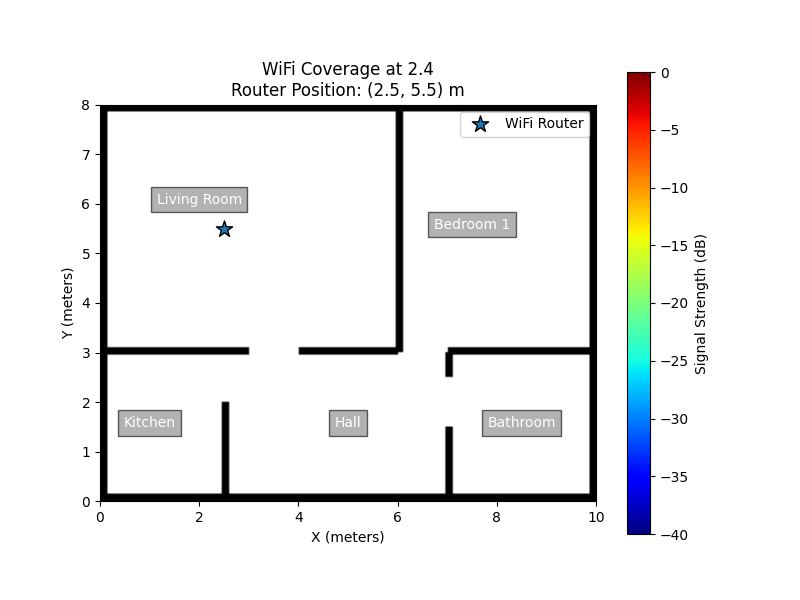
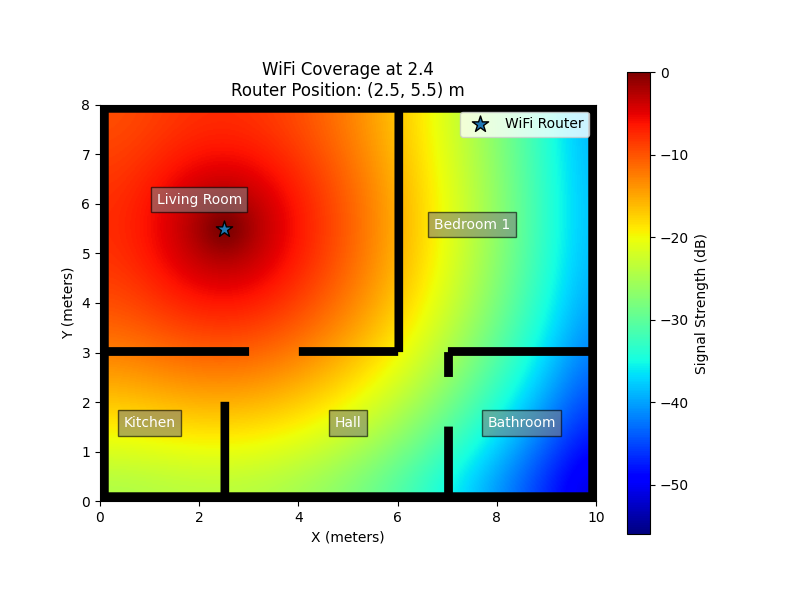
Created a working helmholtz thing
now it needs to be added to the proper code hahah

diff --git a/Assignment3/challenge_B.py b/Assignment3/challenge_B.py
@@ -2,7 +2,9 @@ import numpy as np
 import matplotlib.pyplot as plt
 import cmath
 import os
+import matplotlib.animation as animation
 
+# Create discretisation grid
 scale = 40  #scaling so that 1 meter is 20 pixels
 dx = 1/scale    #each pixel is 1/20 cm
 
@@ -100,20 +102,24 @@ def initilize_source(xr, yr, dx, nx, ny, Lx, Ly, A, sigma):
 def helmholtz(k, fxy, nx, ny, dx, wall_mask, max_run = 50000):
     u = np.zeros((nx, ny), dtype=np.complex128)
     u_neighbourhood = np.zeros((nx, ny), dtype=np.complex128)
-    omega = 0.6
+    omega = 0.6 # for SOR
+
     for iter in range(max_run):
         u_old = u.copy()
-        denom = 4.0 + k**2 * dx**2
+        denom = 4.0 - k**2 * dx**2
         mask = np.abs(denom) < 1e-12
         denom[mask] = 1e-6 * denom[mask]/np.abs(denom[mask] + 1e-12)
+
         u_neighbourhood[1:-1, 1:-1] = ((
             u_old[1:-1, 2:]   +  # right
             u_old[1:-1, :-2]  +  # left
             u_old[2:, 1:-1]   +  # up
             u_old[:-2, 1:-1]  +  # down
-            + fxy[1:-1, 1:-1] * dx**2) 
+            - fxy[1:-1, 1:-1] * dx**2) 
             / denom[1:-1, 1:-1])
+        
         u = (1 - omega)*u + omega * u_neighbourhood
+
         #absorbing boundary conditions where it depends on its closest non boundary neighbour
         for l in range(ny):
             #left wall
@@ -125,6 +131,7 @@ def helmholtz(k, fxy, nx, ny, dx, wall_mask, max_run = 50000):
             u[i, 0] = u[i, 1] / (1 - 1j * k[i, 0] * dx)
             #bottom wall
             u[i, -1] = u[i, -2] / (1 - 1j * k[i, -1] * dx)
+
         conv = np.max(np.abs(u - u_old))
         num = max(np.max(np.abs(u)), 1e-12)
         if iter % 500 == 0:
@@ -136,14 +143,89 @@ def helmholtz(k, fxy, nx, ny, dx, wall_mask, max_run = 50000):
     print(f"system failed to converge in {max_run} steps")
     return u
 
+
+def animate_wave(u, Lx, Ly, xr, yr, wall_mask, frequency, num_frames=60, save_file=None):
+    """
+    Animate the time-varying wave field from Helmholtz solution.
+    
+    Parameters:
+    - u: Complex wave field from helmholtz solver
+    - frequency: Frequency in GHz
+    - num_frames: Number of frames in animation
+    - save_file: If provided, save animation to this file (e.g., 'wave.mp4')
+    """
+    
+    omega = 2 * np.pi * frequency * 1e9  # Angular frequency (rad/s)
+    magnitude = np.abs(u)
+    phase = np.angle(u)
+    
+    fig, ax = plt.subplots(figsize=(10, 8))
+    
+    # Initial frame
+    wave_real = magnitude * np.cos(phase)
+    im = ax.imshow(wave_real.T, origin='lower', extent=[0, Lx, 0, Ly],
+                   cmap='RdBu', vmin=-magnitude.max(), vmax=magnitude.max())
+    
+    # Overlay walls
+    wall_alpha = np.ma.masked_where(wall_mask == 0, wall_mask)
+    ax.imshow(wall_alpha.T, origin='lower', extent=[0, Lx, 0, Ly], 
+              cmap='gray', alpha=0.3)
+    
+    # Router position
+    ax.scatter(xr, yr, marker='*', s=200, c='yellow', edgecolors='black', 
+               linewidths=2, label='Router', zorder=10)
+    
+    # Time display
+    time_text = ax.text(0.02, 0.95, '', transform=ax.transAxes, 
+                        color='white', fontsize=14, weight='bold',
+                        bbox=dict(boxstyle='round', facecolor='black', alpha=0.8))
+    
+    ax.set_title(f'WiFi Wave Oscillation at {frequency} GHz', fontsize=16)
+    ax.set_xlabel('x (m)', fontsize=12)
+    ax.set_ylabel('y (m)', fontsize=12)
+    plt.colorbar(im, ax=ax, label='Wave Amplitude')
+    ax.legend(loc='upper right')
+    
+    def animate_frame(frame):
+        # One full period
+        t = frame / num_frames * (1 / (frequency * 1e9))
+        
+        # Real part of wave: Re[u * exp(iωt)]
+        wave_real = magnitude * np.cos(omega * t + phase)
+        
+        im.set_data(wave_real.T)
+        time_text.set_text(f't = {t*1e12:.2f} ps')  # Picoseconds
+        
+        return [im, time_text]
+    
+    anim = animation.FuncAnimation(fig, animate_frame, frames=num_frames, 
+                                   interval=50, blit=True)
+    
+    if save_file:
+        anim.save(save_file, writer='pillow', fps=20)
+        print(f"Animation saved to {save_file}")
+    
+    plt.tight_layout()
+    plt.show()
+    
+    return anim
+
+
 #wrapper function that runs the whole simulation
-def run_sim(Lx, Ly, nx, ny, scale, dx, xr, yr, walls, outer_walls, wall_thickness, frequency, scale_freq, A, sigma, max_run):
+def run_sim(Lx, Ly, nx, ny, scale, dx, xr, yr, walls, outer_walls, wall_thickness, frequency, scale_freq, A, sigma, max_run,  animate=True):
     freq_scaled = frequency * scale_freq
     wall_mask = initilize_walls(walls, outer_walls)
     k = initilize_k_field(wall_mask, nx, ny, freq_scaled)
     fxy = initilize_source(xr, yr, dx, nx, ny, Lx, Ly, A, sigma)
     u = helmholtz(k, fxy, nx, ny, dx, wall_mask, max_run=max_run)
+
+    # static plot
     plot_sim(u, Lx, Ly, xr, yr, wall_mask, scale, frequency)
+
+    # Animated plot (optional) CURRENTLY NOT SAVED
+    if animate:
+        animate_wave(u, Lx, Ly, xr, yr, wall_mask, freq_scaled, 
+                     num_frames=60)
     
 def plot_sim(u, Lx, Ly, xr, yr, wall_mask, scale, frequency):
     u_abs = np.abs(u)

diff --git a/Assignment3/helmholtz_try.py b/Assignment3/helmholtz_try.py
@@ -1,0 +1,130 @@
+import numpy as np
+import matplotlib.pyplot as plt
+import matplotlib.animation as animation
+
+# --- Grid ---
+Lx, Ly = 10.0, 8.0
+nx, ny = 200, 160
+dx = Lx / nx
+h = dx
+
+# --- Time ---
+c = 1.0
+dt = 0.4 * h / c
+nt = 3000
+
+# --- Mesh ---
+x = np.linspace(0, Lx, nx)
+y = np.linspace(0, Ly, ny)
+X, Y = np.meshgrid(x, y, indexing='ij')
+
+# --- Refractive index ---
+n = np.ones((nx, ny), dtype=np.complex128)
+n_wall = 2.5 + 0.5j
+
+
+
+# walls
+n[int(2.5/dx):int(2.7/dx), int(2/dx):int(6/dx)] = n_wall
+n[int(7.3/dx):int(7.5/dx), int(2/dx):int(6/dx)] = n_wall
+
+alpha = c / n
+a = alpha**2  # this is what enters PDE
+
+# --- Gaussian source ---
+frequency = 2.4  # GHz (just for reference)
+omega = 10.0     # scaled angular frequency (important: not too large!)
+A = 10**4
+sigma = 0.2
+xr, yr = 5.0, 4.0
+
+fxy = A * np.exp(-((X - xr)**2 + (Y - yr)**2)/(2 * sigma**2))
+
+# --- Initialize ---
+u_prev = np.zeros((nx, ny), dtype=np.complex128)
+u = np.zeros((nx, ny), dtype=np.complex128)
+
+def divergence_term(u, a):
+    """Compute ∇·(a ∇u) using flux form"""
+    term = np.zeros_like(u)
+
+    # interior only
+    # x-direction fluxes
+    a_ip = 0.5 * (a[1:-1,1:-1] + a[2:,1:-1])
+    a_im = 0.5 * (a[1:-1,1:-1] + a[:-2,1:-1])
+
+    flux_x = a_ip * (u[2:,1:-1] - u[1:-1,1:-1]) - \
+             a_im * (u[1:-1,1:-1] - u[:-2,1:-1])
+
+    # y-direction fluxes
+    a_jp = 0.5 * (a[1:-1,1:-1] + a[1:-1,2:])
+    a_jm = 0.5 * (a[1:-1,1:-1] + a[1:-1,:-2])
+
+    flux_y = a_jp * (u[1:-1,2:] - u[1:-1,1:-1]) - \
+             a_jm * (u[1:-1,1:-1] - u[1:-1,:-2])
+
+    term[1:-1,1:-1] = (flux_x + flux_y) / h**2
+    return term
+
+# --- First step ---
+u_next = u + 0.5 * dt**2 * (divergence_term(u, a) + fxy)
+
+# --- Storage ---
+frames = []
+
+# --- Time stepping ---
+for t in range(nt):
+    div = divergence_term(u, a)
+
+    t_real = t * dt
+    source_t = fxy * np.sin(omega * t_real)
+
+    u_new = 2*u - u_prev + dt**2 * (div + source_t)
+
+    # boundaries
+    u_new[0,:] = 0
+    u_new[-1,:] = 0
+    u_new[:,0] = 0
+    u_new[:,-1] = 0
+
+    u_prev, u = u, u_new
+
+    if t % 3 == 0:
+        frames.append(u.copy())
+
+# --- Plot ---
+fig, ax = plt.subplots(figsize=(8,6))
+
+im = ax.imshow(np.real(frames[0]).T, origin='lower',
+               extent=[0, Lx, 0, Ly],
+               cmap='RdBu')
+
+# walls overlay
+wall_mask = np.abs(n - 1) > 1e-6
+overlay = np.ma.masked_where(~wall_mask, wall_mask)
+ax.imshow(overlay.T, origin='lower',
+          extent=[0, Lx, 0, Ly],
+          cmap='gray', alpha=0.4)
+
+cbar = plt.colorbar(im, ax=ax)
+cbar.set_label("Wave amplitude (Re[u])")
+
+time_text = ax.text(0.02, 0.95, '', transform=ax.transAxes,
+                    color='white', fontsize=12,
+                    bbox=dict(facecolor='black', alpha=0.7))
+
+ax.set_title("Physically Correct Wave with Variable Refractive Index")
+ax.set_xlabel("x (m)")
+ax.set_ylabel("y (m)")
+
+def animate(i):
+    im.set_data(np.real(frames[i]).T)
+    time_text.set_text(f"t = {i*dt*3:.3f} s")
+    return [im, time_text]
+
+ani = animation.FuncAnimation(fig, animate,
+                              frames=len(frames),
+                              interval=50)
+
+plt.tight_layout()
+plt.show()
